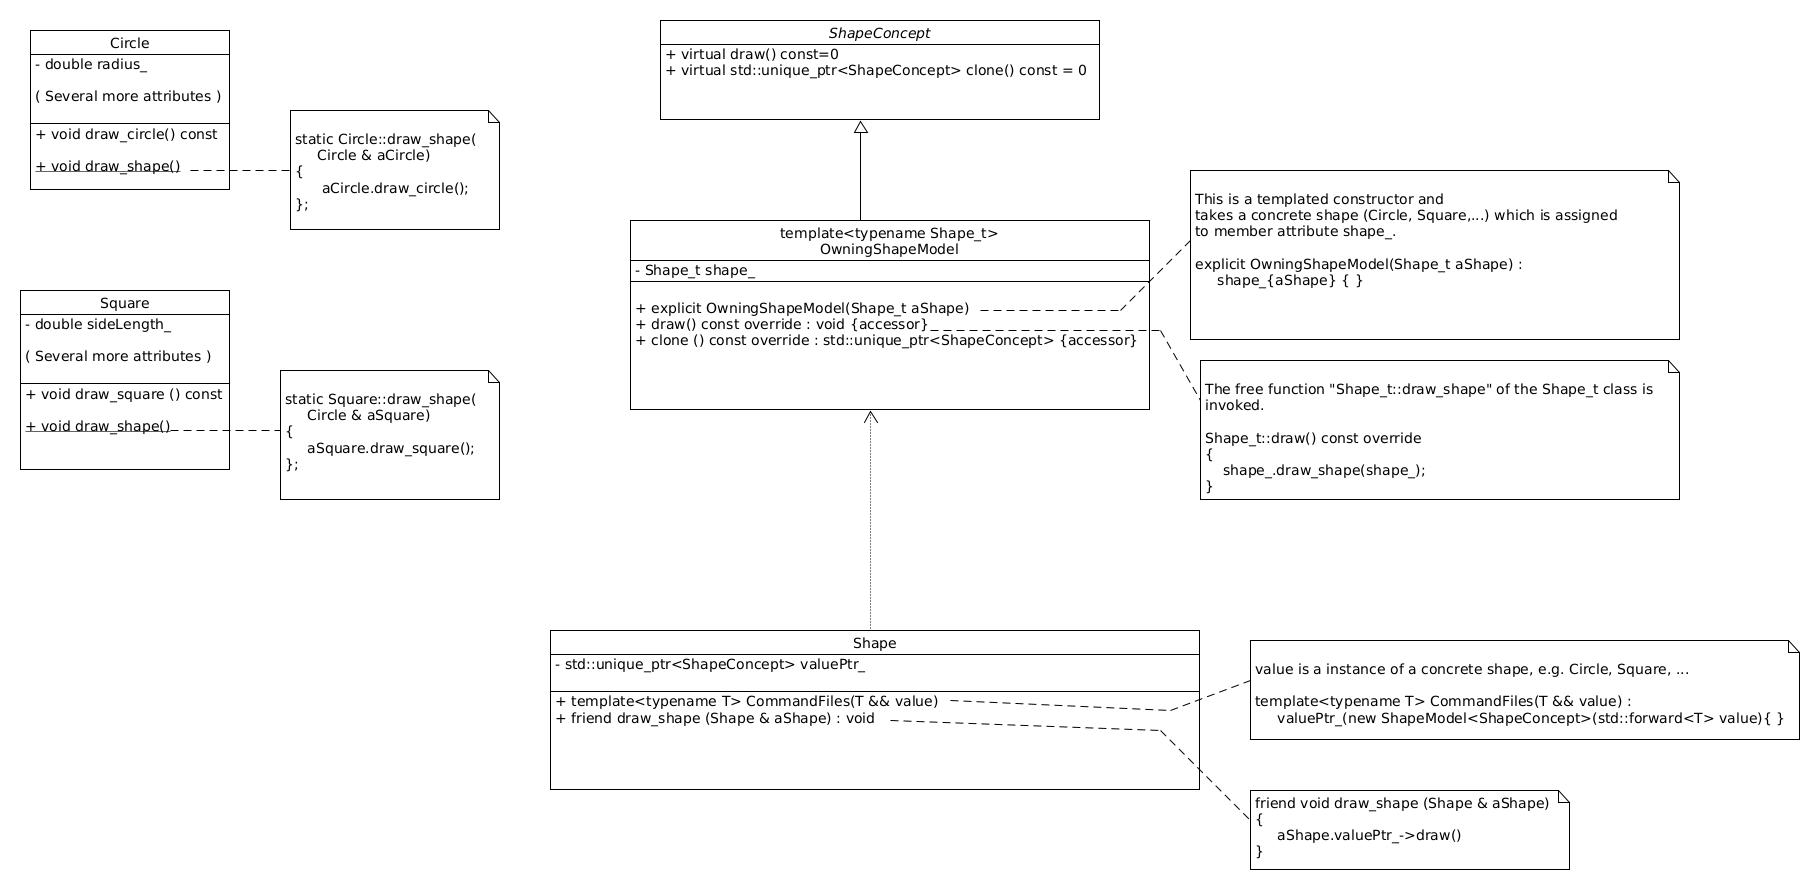
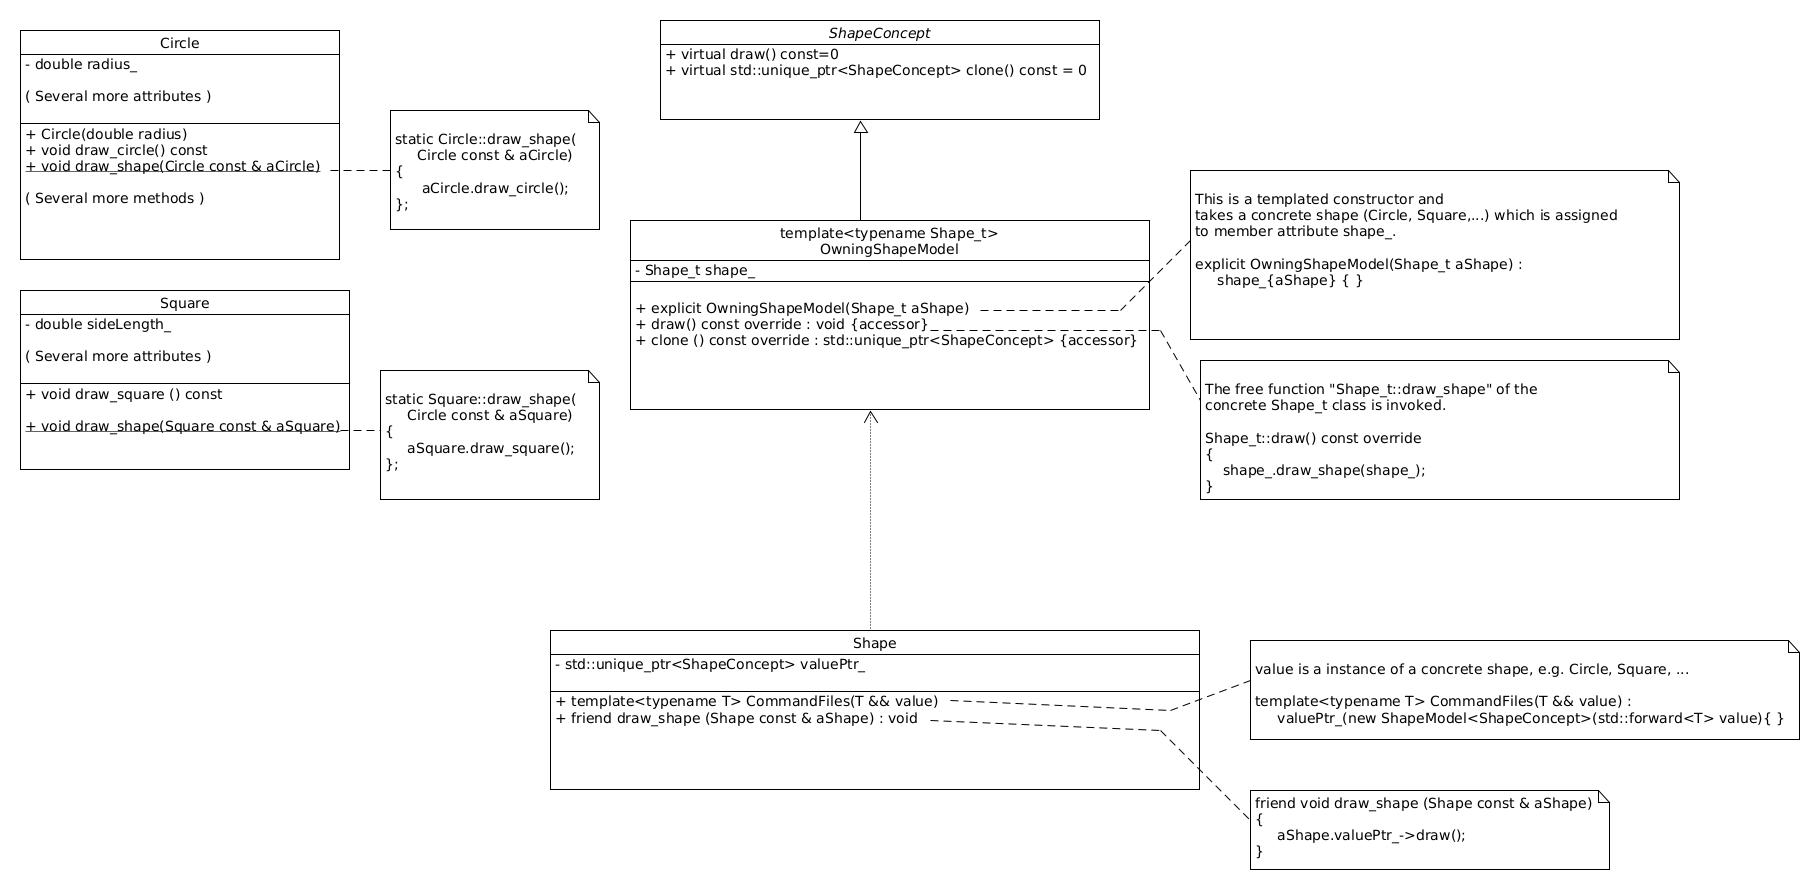
Added more documentation for TypeErasurer iheritance.

diff --git a/doxygen_documentation/sources/DevelopersDocumentation/InheritanceDesignPatterns/TypeErasureInheritance.md b/doxygen_documentation/sources/DevelopersDocumentation/InheritanceDesignPatterns/TypeErasureInheritance.md
@@ -22,15 +22,15 @@ template parameters are of concrete shape types
     template <typename T> 
     class OwningShapeModel<T>;
 
-and `OwningShapeModel` constructor takes a concrete shape, `Circle`, Square, ..., that is used to
+and `OwningShapeModel` constructor takes a concrete shape, e.g. `Circle`, `Square`, e.t.c., that is used to
 initialize the data member `OwningShapeModel::concreteShape_`. 
 
     template <typename T>
     explcit OwningShapeModel<T>::OwningShapeModel( T & aConcreteShape) :
     concreteShape_{aConcreteShape};
 
-`OwningShapeModel` must also override all virtual functions of `ShapeConcept`. `ShapeConcept`
-has virtual functions  `ShapeConcept::draw` and `ShapeConcept::clone` and a possible implementation 
+In addition `OwningShapeModel` must override all virtual functions of `ShapeConcept`. `ShapeConcept`
+has virtual functions  `ShapeConcept::draw` and `ShapeConcept::clone`. A possible implementation 
 of the `OwningShapeModel::draw`is listed below.
 
     OwningShapeModel::draw() const override
@@ -49,7 +49,37 @@ where the concrete shape is wrapped in `Shape::valuePtr_`
 
     std::unique_ptr<ShapeConcept> Shape::valuePtr_;
 
-The `Shape` class has a hidden friend function [2]  `draw()`. 
+The `Shape` class has a hidden friend function [2]  `draw()`.
+
+    friend void draw_shape(Shape const  & aShape)
+    {
+        aShape.valuePtr_->draw();
+    }
+
+The below listing is an example of the use:
+
+    // ------
+    // <Main.cpp>
+    // ------
+
+    #include "Circle.h"
+    #include "Shape.h"
+
+    int main(int argc,char**argv
+    {
+        // Create a concrete circle shape
+        Circle aCircle(7.0);
+
+        // Create a TypeErasure for the concrete circle aCircle
+        Shape shape1(aCircle);
+
+        // Draw the shape using the hidden friend of class Shape.
+        draw_shape(shape1);
+
+        return EXIT_SUCESS;
+    }
+
 ---
+
 [1] Iglberger, K. (2022). <EM>C++ Software Design. </EM> (First Edition).  O'Reilly Media. ISBN: 9781098113162. <BR/>
 [2]  Williams, A. (2019, June 27). The Power of Hidden Friends in C++. Just Software Solutions. <EM>https://www.justsoftwaresolutions.co.uk/cplusplus/hidden-friends.html</EM> <BR/>
